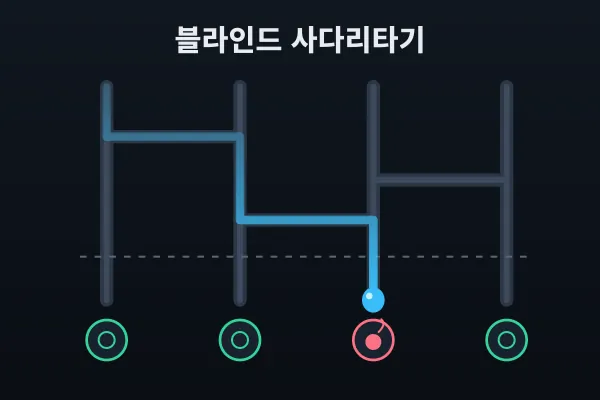
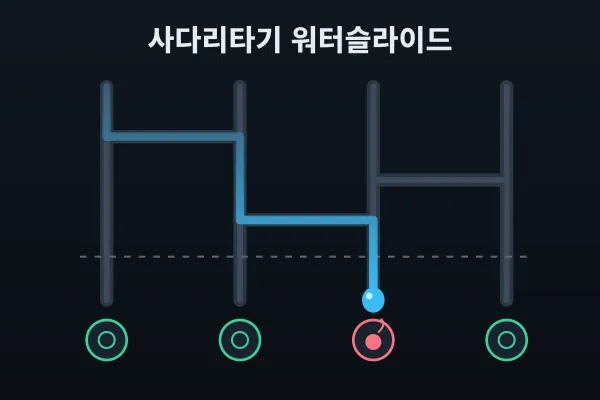
사다리 길이를 인원과 무관하게 고정하고 감속을 마지막에 몰아준다.
8명일 때 21줄까지 늘어나던 것을 16줄로 고정하고 구간이 커진 만큼 위쪽을 줄인다.
점선부터 끝까지 느리던 것을 마지막 두 줄에서만 조이도록 바꾼다.
이름을 사다리타기 워터슬라이드로 바꾼다.

Changed region(s): [[0.24, 0.06, 0.75, 0.15]]

diff --git a/src/main/resources/static/js/ladder.js b/src/main/resources/static/js/ladder.js
@@ -1,5 +1,5 @@
 /*
- * 블라인드 사다리타기 — 워터슬라이드
+ * 사다리타기 워터슬라이드 — 워터슬라이드
  *
  * 설계 메모 (docs/plans/ladder.md)
  *  - 물이 미끄럼틀을 타고 내려간다. 점이 선을 따라가는 것보다 훨씬 잘 읽힌다.
@@ -23,30 +23,37 @@
     'use strict';
 
     // ── 설정값 ──────────────────────────────────────────────
-    var UPPER_ROWS = 12;
+    var TOTAL_ROWS = 16;          // 인원과 무관하게 사다리 길이를 일정하게 유지한다
+    var MIN_UPPER_ROWS = 6;
     var RUNG_DENSITY = 0.30;
     var ROW_H = 62;
     var PAD_TOP = 40;
     var POOL_H = 92;
     var DWELL_UPPER = 80;         // 위쪽 갈림길에서 망설이는 시간(ms). 길면 속도감이 죽는다
-    var DWELL_ZONE = 230;         // 운명의 구간은 길게 끈다
+    var DWELL_ZONE = 140;         // 운명의 구간 중간. 여기서 오래 끌면 답답하다
     var DWELL_FINAL = 560;        // 마지막 줄에서 트는 순간. 여기가 제일 조여야 한다
     var HOLD_MS = 820;
 
     var COLORS = ['#38bdf8', '#f97316', '#a78bfa', '#34d399', '#fbbf24', '#fb7185', '#22d3ee', '#c084fc'];
 
-    // 아래로 갈수록 느려진다. 월드 y 비율(0~1)을 받아 px/초를 돌려준다.
-    function speedAt(ratio, inZone) {
-        if (inZone) { return 210; }
+    /*
+     * 하강 속도(px/초).
+     * 점선부터 끝까지 계속 느리게 했더니 구간이 길어서 답답했다.
+     * 운명의 구간 안에서도 앞부분은 적당히 흘러가고, 마지막 두 줄에서만 확 조인다.
+     */
+    function speedAt(ratio, rowsLeft) {
+        if (rowsLeft <= 1) { return 150; }
+        if (rowsLeft <= 2) { return 250; }
+        if (rowsLeft <= 4) { return 430; }
         if (ratio < 0.35) { return 1150; }
-        if (ratio < 0.70) { return 700; }
-        return 430;
+        if (ratio < 0.70) { return 780; }
+        return 560;
     }
 
     // ── 상태 ────────────────────────────────────────────────
     var state = {
         players: 4, bombs: 1, cols: 4,
-        zoneRows: 3, totalRows: 15,
+        zoneRows: 4, upperRows: 12, totalRows: 16,
         upperRungs: [], zoneRungs: [],
         bombSlots: [], usedCols: [], takenSlots: [],
         slotOwner: {},            // 도착점 -> 출발 번호. 도착한 뒤에만 채운다 (미리 채우면 결과가 새어나간다)
@@ -135,7 +142,7 @@
     }
 
     function rungsAt(row) {
-        return row < UPPER_ROWS ? state.upperRungs[row] : (state.zoneRungs[row - UPPER_ROWS] || []);
+        return row < state.upperRows ? state.upperRungs[row] : (state.zoneRungs[row - state.upperRows] || []);
     }
 
     function walkRow(col, row) {
@@ -157,9 +164,12 @@
         state.players = players;
         state.bombs = Math.min(bombs, players - 1);
         state.cols = players;
-        state.zoneRows = Math.max(4, players + 1);   // 마지막 한 줄은 막판에 트는 데 쓴다
-        state.totalRows = UPPER_ROWS + state.zoneRows;
-        state.upperRungs = makeUpperRungs(state.cols, UPPER_ROWS);
+        // 운명의 구간은 "도착점 옆 칸까지 이동 + 마지막에 한 칸 틀기"가 가능해야 한다.
+        // 최악의 경우 끝에서 끝까지 옮겨야 하므로 열 수만큼은 필요하다.
+        state.zoneRows = Math.max(4, players);
+        state.upperRows = Math.max(MIN_UPPER_ROWS, TOTAL_ROWS - state.zoneRows);
+        state.totalRows = state.upperRows + state.zoneRows;
+        state.upperRungs = makeUpperRungs(state.cols, state.upperRows);
         state.zoneRungs = [];
         state.usedCols = [];
         state.takenSlots = [];
@@ -241,7 +251,7 @@
         if (state.usedCols.indexOf(startCol) >= 0) { return; }
 
         var col = startCol;
-        for (var r = 0; r < UPPER_ROWS; r++) { col = walkRow(col, r); }
+        for (var r = 0; r < state.upperRows; r++) { col = walkRow(col, r); }
         var free = [];
         for (var i = 0; i < state.cols; i++) {
             if (state.takenSlots.indexOf(i) < 0) { free.push(i); }
@@ -304,20 +314,19 @@
         if (!cur) { return; }
 
         var p = pointAt(cur.path, cur.dist);
-        var inZone = p.row > UPPER_ROWS;
 
         if (cur.dwell > 0) {
             cur.dwell -= dt * 1000;
         } else {
             var ratio = (p.y - PAD_TOP) / (state.totalRows * ROW_H);
-            cur.dist += (skipping ? 5200 : speedAt(ratio, inZone)) * dt;
+            cur.dist += (skipping ? 5200 : speedAt(ratio, state.totalRows - p.row)) * dt;
 
             var np = pointAt(cur.path, cur.dist);
             if (np.seg !== cur.seg) {
                 var seg = cur.path.segs[np.seg];
                 if (seg && seg.horizontal && !skipping) {
                     var isLast = np.row >= state.totalRows;
-                    cur.dwell = isLast ? DWELL_FINAL : (np.row > UPPER_ROWS ? DWELL_ZONE : DWELL_UPPER);
+                    cur.dwell = isLast ? DWELL_FINAL : (np.row > state.upperRows ? DWELL_ZONE : DWELL_UPPER);
                     if (isLast) { sfx.heartbeat(); } else { sfx.split(); }
                     addSplash(cur, np.x, np.y);
                 }
@@ -521,7 +530,7 @@
             lines.push([colX(c), rowY(0), colX(c), rowY(state.totalRows)]);
         }
         for (var r = 0; r < state.totalRows; r++) {
-            if (r >= UPPER_ROWS) {
+            if (r >= state.upperRows) {
                 // 운명의 구간만 숨긴다. 위쪽은 처음부터 보여야 예측이 생긴다.
                 var cur = state.current;
                 if (!cur || cur.revealed < r + 1) { continue; }
@@ -550,7 +559,7 @@
     }
 
     function drawZoneBand(t) {
-        var y = rowY(UPPER_ROWS);
+        var y = rowY(state.upperRows);
         ctx.save();
         ctx.setLineDash([6, 7]);
         ctx.strokeStyle = t.zone; ctx.lineWidth = 1.5;

diff --git a/src/main/resources/templates/game/ladder.html b/src/main/resources/templates/game/ladder.html
@@ -1,23 +1,23 @@
 <!DOCTYPE html>
 <html lang="ko" xmlns:th="http://www.thymeleaf.org">
 <head>
-    <title>블라인드 사다리타기 – 워터슬라이드 사다리게임 | 커피내기·벌칙뽑기 | Binary World</title>
+    <title>사다리타기 워터슬라이드 – 물이 흐르는 온라인 사다리게임 | 커피내기·벌칙뽑기 | Binary World</title>
     <meta charset="UTF-8">
     <meta name="viewport" content="width=device-width, initial-scale=1.0, viewport-fit=cover">
 
     <meta name="description" content="물이 미끄럼틀을 타고 내려가는 사다리타기. 꽝 위치는 미리 공개되고, 마지막 구간은 가려져 있어 도착 직전까지 결과를 모릅니다. 커피내기·점심내기·벌칙뽑기용 무료 온라인 사다리타기.">
-    <meta name="keywords" content="블라인드 사다리타기, 사다리타기, 온라인 사다리타기, 모바일 사다리타기, 커피내기 사다리타기, 점심내기 사다리타기, 벌칙 사다리타기, 사다리타기 룰렛, 사다리타기 8명, 제비뽑기, 랜덤뽑기, Binary World">
+    <meta name="keywords" content="사다리타기 워터슬라이드, 사다리타기, 온라인 사다리타기, 모바일 사다리타기, 커피내기 사다리타기, 점심내기 사다리타기, 벌칙 사다리타기, 사다리타기 룰렛, 사다리타기 8명, 제비뽑기, 랜덤뽑기, Binary World">
     <meta name="robots" content="index, follow">
     <meta name="author" content="Binary World">
 
     <meta property="og:type" content="website">
-    <meta property="og:title" content="블라인드 사다리타기 – 워터슬라이드 사다리게임 | Binary World">
+    <meta property="og:title" content="사다리타기 워터슬라이드 – 물이 흐르는 온라인 사다리게임 | Binary World">
     <meta property="og:description" content="물이 미끄럼틀을 타고 내려갑니다. 꽝은 미리 공개되고, 마지막 구간은 가려져 있습니다. 커피내기·점심내기·벌칙뽑기용 무료 사다리타기.">
     <meta property="og:image" content="https://game.binaryworld.kr/img/ladder.png">
     <meta property="og:url" content="https://game.binaryworld.kr/ladder">
 
     <meta name="twitter:card" content="summary_large_image">
-    <meta name="twitter:title" content="블라인드 사다리타기 – 워터슬라이드 사다리게임 | Binary World">
+    <meta name="twitter:title" content="사다리타기 워터슬라이드 – 물이 흐르는 온라인 사다리게임 | Binary World">
     <meta name="twitter:description" content="물이 미끄럼틀을 타고 내려갑니다. 꽝은 미리 공개되고, 마지막 구간은 가려져 있습니다.">
     <meta name="twitter:image" content="https://game.binaryworld.kr/img/ladder.png">
 
@@ -31,7 +31,7 @@
     {
       "@context": "https://schema.org",
       "@type": "WebApplication",
-      "name": "블라인드 사다리타기",
+      "name": "사다리타기 워터슬라이드",
       "alternateName": ["사다리타기", "온라인 사다리타기", "커피내기 사다리타기", "벌칙 사다리타기", "워터슬라이드 사다리"],
       "url": "https://game.binaryworld.kr/ladder",
       "description": "물이 미끄럼틀을 타고 내려가는 사다리타기. 꽝 위치는 미리 공개되고 마지막 구간은 가려져 있다. 커피내기·점심내기·벌칙뽑기에 적합.",
@@ -71,7 +71,7 @@
         <a href="/" class="back-btn">← 게임 목록</a>
     </div>
 
-    <h1 class="game-title">블라인드 사다리타기</h1>
+    <h1 class="game-title">사다리타기 워터슬라이드</h1>
     <p class="game-desc">물이 미끄럼틀을 타고 내려갑니다. 마지막 구간은 가려져 있어요. 커피내기·점심내기·벌칙뽑기에 딱!</p>
 
     <div class="bw-ladder-setup" id="ladder-setup">

diff --git a/src/main/java/com/example/game/common/GameCatalog.java b/src/main/java/com/example/game/common/GameCatalog.java
@@ -45,7 +45,7 @@ public final class GameCatalog {
     public static final List<Game> GAMES = List.of(
             new Game("/mugunghwa", "무궁화 꽃이 피었습니다", "Pick",
                     "커피내기·점심내기·벌칙뽑기 · 사다리·룰렛 대체", "2026-08-30"),
-            new Game("/ladder", "블라인드 사다리타기", "Ladder",
+            new Game("/ladder", "사다리타기 워터슬라이드", "Ladder",
                     "물이 미끄럼틀을 타고 내려가는 사다리타기 · 커피내기·벌칙뽑기", "2026-08-30"),
             new Game("/wasabi", "와사비 룰렛", "Roulette",
                     "초밥 접시 중 와사비를 피하세요 · 커피내기·점심내기", "2026-08-30"),
